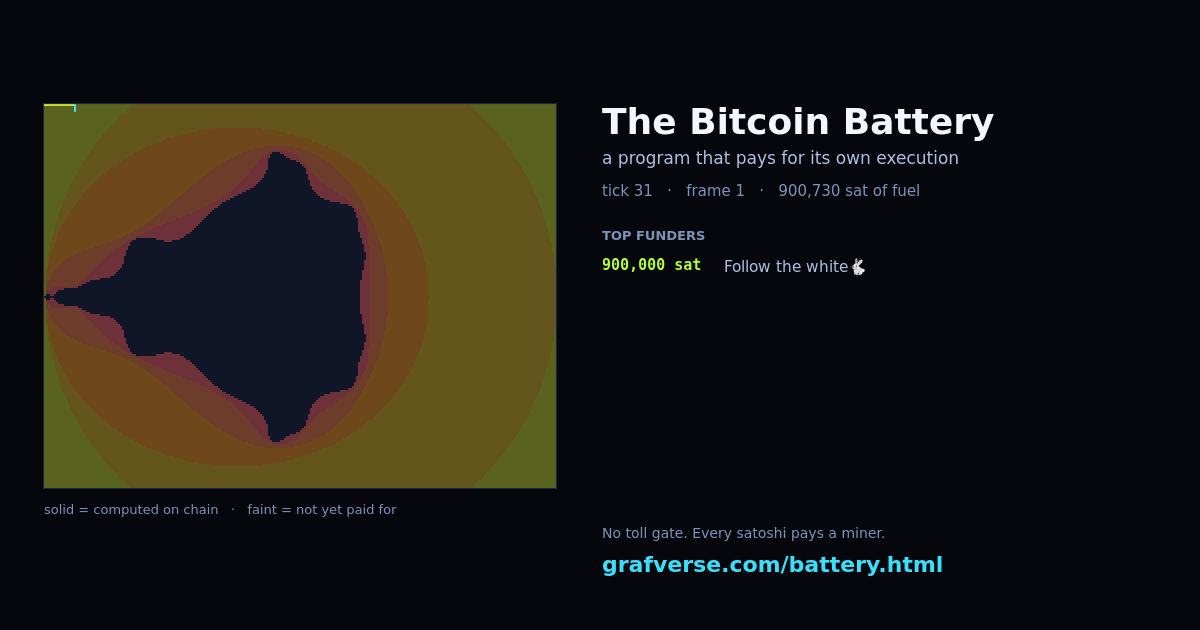
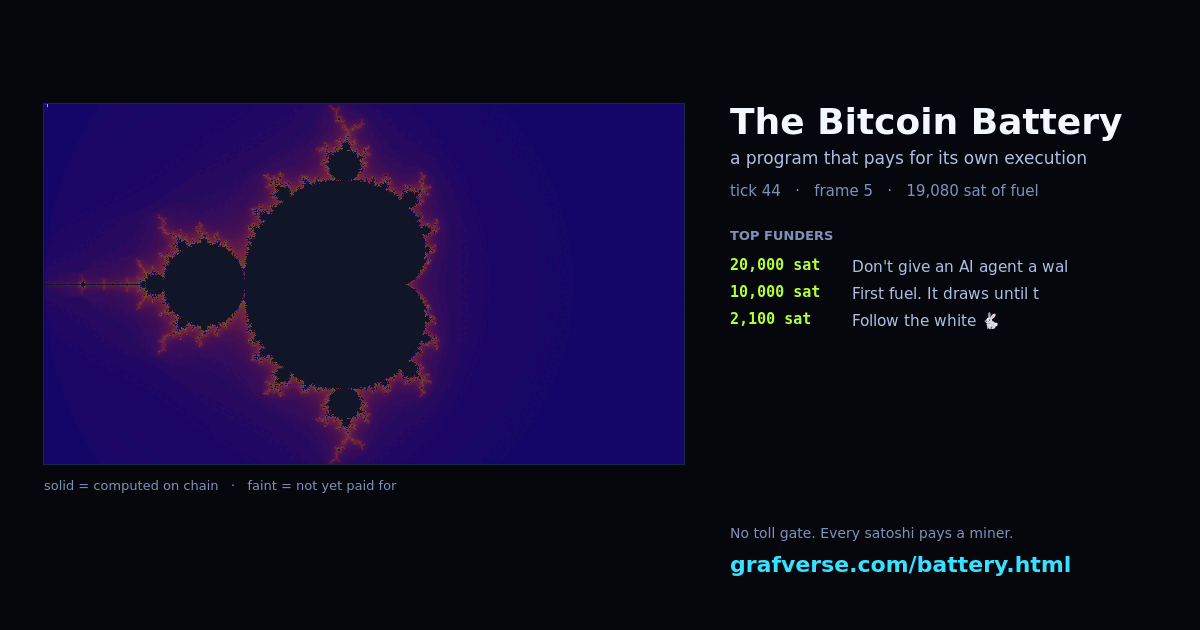
The page emits a signing REQUEST, and the signer verifies it against the chain
A signer handed a finished transaction has to trust whoever built it. PharLap's air-gap already
solved this the right way — what crosses the gap is a REQUEST describing the inputs, and the
offline side re-runs the same deterministic builder with its own key, signing what IT built. The
battery now works the same way.

The page emits the outpoints, their source transactions, the amount, the mark and the change
address. Nothing it produces is used by the signer — only the facts it names, every one of which
is checkable.

AND THEY ARE CHECKED, before the key is touched:

  · both source transactions must hash to the txids claimed
  · THE STATE IS NOT TAKEN ON TRUST. buildBatteryLock(claimed state) is compared BYTE FOR BYTE
    with the locking script actually on chain. A request lying about where the picture has got to
    is refused, not signed.
  · the funding outpoint's real value is compared with the claimed one
  · the change must pay an address this key controls

Demonstrated with a random key against a request the browser produced unmodified: the state
rebuilt the exact script on chain, the funding value matched at 35,703 sat, and it then REFUSED
because the change paid 16VzhSD… rather than the signing key. The guard fires on the case that
matters — a transaction that verifies perfectly and pays someone else.

The page keeps an "assembled transaction instead" toggle for signers that want one, but the
[…]

diff --git a/mint/tools/battery.ts b/mint/tools/battery.ts
@@ -273,6 +273,86 @@ async function resync(): Promise<void> {
   console.log(`\n   recorded in ${STATE_FILE}`)
 }
 
+/**
+ * Sign a top-up from a SIGNING REQUEST, and broadcast it.
+ *
+ * The other half of the page's funding flow, and shaped after PharLap's air-gap: what crosses the gap
+ * is not a transaction to rubber-stamp but a REQUEST describing the inputs. This side re-runs the same
+ * builder with its own key and signs what IT built. A page that is buggy or hostile cannot slip
+ * anything past that, because nothing it produced is used — only the outpoints it named, every one of
+ * which is checked against the chain below.
+ *
+ * WHAT IS VERIFIED BEFORE THE KEY IS TOUCHED:
+ *   · the battery's source transaction really is the tip the request claims
+ *   · the state is not taken on trust — buildBatteryLock(claimed state) is compared BYTE FOR BYTE with
+ *     the locking script actually on chain. If they differ, the request is lying about where the
+ *     picture has got to, and nothing is signed.
+ *   · the funding outpoint exists, and its value is what the request says
+ *   · the change pays an address this key controls
+ */
+async function signRequest(): Promise<void> {
+  const wif = process.env.BATTERY_WIF
+  if (!wif) { console.error('Set BATTERY_WIF=<the key that owns the funding input>.'); process.exit(1) }
+  const path = arg('--sign-request')
+  if (!path) { console.error('--sign-request <file.json>   (the request the page produced)'); process.exit(1) }
+
+  let req: any
+  try { req = JSON.parse(readFileSync(path, 'utf8')) }
+  catch (e) { console.error('could not read that request:', (e as Error).message); process.exit(1) }
+  if (req.action !== 'battery-topup') { console.error(`not a battery top-up request (action: ${req.action})`); process.exit(1) }
+
+  const key = importWif(wif), addr = key.toAddress()
+  const batTx = Transaction.fromHex(req.battery.sourceTxHex)
+  const fundTx = Transaction.fromHex(req.funding.sourceTxHex)
+
+  // the outpoints must be the ones named
+  if (batTx.id('hex') !== req.battery.txId) { console.error('the battery source tx does not hash to the txid claimed'); process.exit(1) }
+  if (fundTx.id('hex') !== req.funding.txId) { console.error('the funding source tx does not hash to the txid claimed'); process.exit(1) }
+
+  // THE STATE IS NOT TAKEN ON TRUST
+  const claimed = buildBatteryLock({ state: req.state, geometry: req.geometry, maxFee: req.maxFee }).toBinary()
+  const actual = batTx.outputs[req.battery.outputIndex].lockingScript.toBinary()
+  const same = claimed.length === actual.length && claimed.every((v, i) => v === actual[i])
+  console.log('\n── CHECKING THE REQUEST AGAINST THE CHAIN ──')
+  console.log('battery tip      :', req.battery.txId)
+  console.log('state it claims  :', same ? '✓ rebuilds the EXACT locking script on chain' : '✗ DOES NOT MATCH — refusing')
+  if (!same) process.exit(1)
+
+  const fundVal = fundTx.outputs[req.funding.outputIndex].satoshis ?? 0
+  console.log('funding input    :', `${fundVal.toLocaleString()} sat`,
+    fundVal === req.funding.satoshis ? '✓ as claimed' : `⚠ request said ${req.funding.satoshis}`)
+  console.log('fuel to add      :', Number(req.addSats).toLocaleString(), 'sat')
+  console.log('mark             :', JSON.stringify(req.mark ?? null))
+  console.log('change to        :', req.changeAddress,
+    req.changeAddress === addr ? '✓ YOURS' : '⚠ NOT THIS KEY’S ADDRESS')
+  if (req.changeAddress !== addr && !has('--force')) {
+    console.error('\nThe change does not pay this key. Refusing — use --force only if you meant that.')
+    process.exit(1)
+  }
+
+  // REBUILT HERE, not imported — the same deterministic builder, with our own key
+  const tx = await buildBatteryTopUpTx({
+    battery: { sourceTransaction: batTx, outputIndex: req.battery.outputIndex,
+               state: req.state, value: batTx.outputs[req.battery.outputIndex].satoshis ?? 0 },
+    addSats: Number(req.addSats),
+    key,
+    funder: { sourceTransaction: fundTx, outputIndex: req.funding.outputIndex },
+    mark: req.mark ?? null,
+    changeAddress: req.changeAddress,
+    geometry: req.geometry, maxFee: req.maxFee,
+  })
+  const raw = tx.toHex(), txid = tx.id('hex')
+  const outs = tx.outputs.map(o => o.satoshis ?? 0)
+  console.log('\n── REBUILT AND SIGNED HERE ──')
+  console.log('txid     :', txid)
+  console.log('outputs  :', outs.map(n => n.toLocaleString()).join(' · '), 'sat')
+  console.log('size     :', raw.length / 2, 'bytes\n')
+
+  if (!has('--broadcast')) { console.log('(dry — re-run with --broadcast to send.)'); return }
+  await broadcast(raw)
+  console.log('\n🔋 Sent. The board will find it by walking the chain — nothing needs telling.')
+}
+
 // ── keyless ticking ─────────────────────────────────────────────────────────────────────────────────
 async function tick(): Promise<void> {
   const st = loadState()
@@ -388,6 +468,7 @@ async function main(): Promise<void> {
   if (has('--selftest')) return void await selftest()
   if (has('--genesis')) return await genesis()
   if (has('--topup')) return await topup()
+  if (has('--sign-request')) return await signRequest()
   if (has('--resync')) return await resync()
   if (has('--tick')) return await tick()
   if (has('--status')) return await status()
@@ -395,6 +476,7 @@ async function main(): Promise<void> {
   console.log('  --selftest                                       no key, no network')
   console.log('  --genesis --fuel <sat> [--mark "…"] [--broadcast] BATTERY_WIF · once, permanent')
   console.log('  --topup <sat> [--mark "…"] [--broadcast]         BATTERY_WIF · signed, adds fuel + a board mark')
+  console.log('  --sign-request <file> [--broadcast]              sign a page-built top-up · BATTERY_WIF')
   console.log('  --resync --tip <txid>                            re-derive the record from the chain')
   console.log('  --tick <n> [--broadcast]                         NO KEY — the autonomous half')
   console.log('  --status                                         where the battery is now')

diff --git a/battery.html b/battery.html
@@ -385,9 +385,9 @@
         </div>
 
           <div id="st-fund" style="display:none">
-            <p class="note" style="margin-top:0"><b>Here is the transaction. Sign it in your wallet.</b>
-               This page never holds a key — it only builds. Check the three lines below before you sign:
-               they are the whole of it.</p>
+            <p class="note" style="margin-top:0"><b>Here is the signing request. Sign it in your own wallet.</b>
+               This page never holds a key. Your signer rebuilds the transaction from these inputs and signs
+               what it built — so nothing here has to be trusted, only checked. These four lines are all of it.</p>
             <div class="stat"><span>fuel into the battery</span><b id="b-add">—</b></div>
             <div class="stat"><span>your mark</span><b id="b-mark" style="font-weight:400;text-align:right;max-width:60%"></b></div>
             <div class="stat"><span>change back to you</span><b id="b-change">—</b></div>
@@ -395,14 +395,14 @@
             <div class="stat"><span>built on tip</span><b id="b-tip" style="font-weight:400;font-size:11px">—</b></div>
 
             <label style="display:block;font-size:11.5px;color:var(--dim);margin:12px 0 3px">
-              unsigned transaction <span id="b-fmt" style="color:var(--faint)">(BEEF — carries the inputs your wallet needs)</span>
+              signing request <span id="b-fmt" style="color:var(--faint)">(your signer rebuilds it and signs its own)</span>
             </label>
             <textarea id="b-hex" readonly rows="4" style="width:100%;background:#0b1220;color:var(--dim);
               border:1px solid var(--line);border-radius:8px;padding:8px;font:11px/1.4 ui-monospace,monospace;
               resize:vertical;word-break:break-all"></textarea>
             <div class="row" style="margin-top:8px">
               <button id="b-copy" style="flex:1">⧉ Copy</button>
-              <button id="b-raw" class="ghost" style="flex:1">raw hex instead</button>
+              <button id="b-raw" class="ghost" style="flex:1">assembled transaction instead</button>
             </div>
             <div class="err" id="f-err"></div>
             <button id="f-cancel" class="ghost" style="width:100%;margin-top:8px">← Back</button>
@@ -1373,7 +1373,7 @@
 
        The covenant input is already complete — OP_PUSH_TX authorises it with a proof about the
        transaction, so no key exists for it anywhere. The only blank is yours. */
-    var built=null;
+    var built=null, request=null;
     function resume(p){
       $('f-err').textContent='';
       $('b-hex').value='building…';
@@ -1404,6 +1404,18 @@
         });
       }).then(function(tx){
         built=tx;
+        /* THE REQUEST IS WHAT CROSSES THE GAP — not the transaction.
+           A signer that merely rubber-stamps a page's transaction has to trust the page. One that gets
+           a REQUEST re-runs the builder itself and signs what IT built, so nothing this page produced
+           is used — only the outpoints it names, every one checkable against the chain. The claimed
+           state is checkable too: rebuild the lock from it and compare with the script on chain.
+           Same shape as PharLap's air-gap, for the same reason. */
+        request={
+          v:1, action:'battery-topup',
+          battery:{ txId:d.tipTxid, outputIndex:0, satoshis:d.fuel, sourceTxHex:tipTx.toHex() },
+          funding:{ txId:u.tx_hash, outputIndex:u.tx_pos, satoshis:u.value, sourceTxHex:fundTx.toHex() },
+          state:d.state, addSats:p.amt, mark:p.mark||null, changeAddress:p.recv
+        };
         var outs=tx.outputs.map(function(o){ return o.satoshis||0 });
         var change=outs[outs.length-1];
         var fee=(d.fuel+u.value)-outs.reduce(function(a,b){return a+b},0);
@@ -1419,12 +1431,11 @@
       });
     }
     function showHex(raw){
-      if(!built) return;
-      $('b-hex').value = raw ? built.toHex()
-                             : built.toBEEF().map(function(b){return ('0'+b.toString(16)).slice(-2)}).join('');
-      $('b-fmt').textContent = raw ? '(raw — your signer must already know the inputs)'
-                                   : '(BEEF — carries the inputs your wallet needs)';
-      $('b-raw').textContent = raw ? 'BEEF instead' : 'raw hex instead';
+      if(!built||!request) return;
+      $('b-hex').value = raw ? built.toHex() : JSON.stringify(request,null,1);
+      $('b-fmt').textContent = raw ? '(the assembled transaction — for a signer that wants one)'
+                                   : '(signing request — your signer rebuilds it and signs its own)';
+      $('b-raw').textContent = raw ? 'signing request instead' : 'assembled transaction instead';
       $('b-raw').onclick=function(){ showHex(!raw) };
     }
     $('b-copy').onclick=function(){
